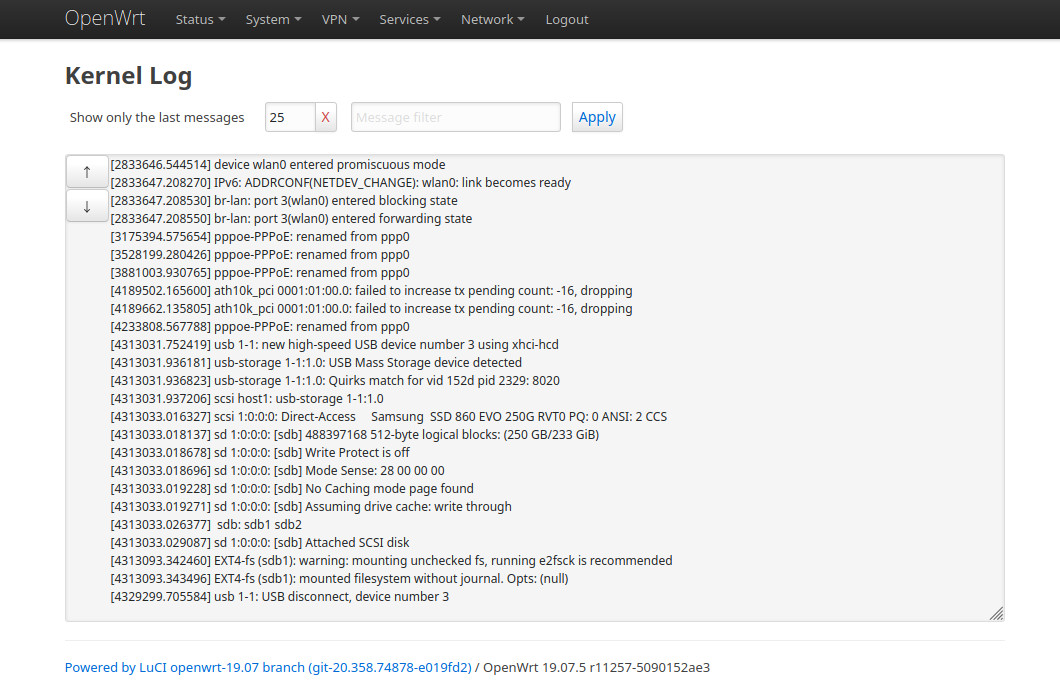
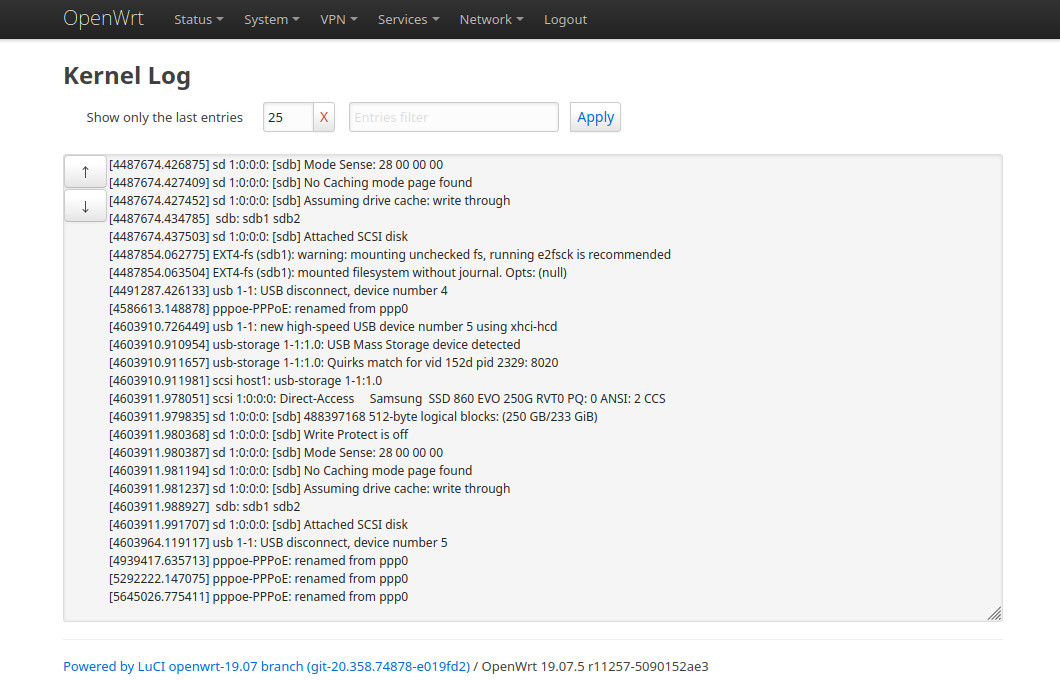
Minor code fixes

diff --git a/htdocs/luci-static/resources/view/dmesg.js b/htdocs/luci-static/resources/view/dmesg.js
@@ -9,6 +9,37 @@ return L.view.extend({
 		return logdata.trim().split(/\n/).map(line => line.replace(/^<\d+>/, ''));
 	},
 
+	setLogTail: function(cArr) {
+		let tailNumVal = document.getElementById('tailValue').value;
+		if(tailNumVal && tailNumVal > 0 && cArr) {
+			return cArr.slice(-tailNumVal);
+		};
+		return cArr;
+	},
+
+	setLogFilter: function(cArr) {
+		let fPattern = document.getElementById('logFilter').value;
+		if(!fPattern) {
+			return cArr;
+		};
+		let fArr = [];
+		try {
+			fArr = cArr.filter(s => new RegExp(fPattern, 'iu').test(s));
+		} catch(err) {
+			if(err.name === 'SyntaxError') {
+				ui.addNotification(null,
+					E('p', {}, _('Wrong regular expression') + ': ' + err.message));
+				return cArr;
+			} else {
+				throw err;
+			};
+		};
+		if(fArr.length === 0) {
+			fArr.push(_('No matches...'));
+		};
+		return fArr;
+	},
+
 	load: function() {
 		return fs.exec_direct('/bin/dmesg', [ '-r' ]).catch(e => {
 			ui.addNotification(null, E('p', {}, _('Unable to load log data: ' + err.message)));
@@ -49,8 +80,8 @@ return L.view.extend({
 			'form': 'logForm',
 			'class': 'cbi-input-text',
 			'style': 'min-width:16em !important; margin-right:1em !important; margin-bottom:0.3em !important',
-			'placeholder': _('Message filter'),
-			'data-tooltip': _('Filter messages with a regexp'),
+			'placeholder': _('Entries filter'),
+			'data-tooltip': _('Filter entries using regexp'),
 		});
 
 		let logFormSubmitBtn = E('input', {
@@ -62,37 +93,6 @@ return L.view.extend({
 			'click': ev => ev.target.blur(),
 		});
 
-		function setLogTail(cArr) {
-			let tailNumVal = tailValue.value;
-			if(tailNumVal && tailNumVal > 0 && cArr) {
-				return cArr.slice(-tailNumVal);
-			};
-			return cArr;
-		}
-
-		function setLogFilter(cArr) {
-			let fPattern = logFilter.value;
-			if(!fPattern) {
-				return cArr;
-			};
-			let fArr = [];
-			try {
-				fArr = cArr.filter(s => new RegExp(fPattern, 'iu').test(s));
-			} catch(err) {
-				if(err.name === 'SyntaxError') {
-					ui.addNotification(null,
-						E('p', {}, _('Wrong regular expression') + ': ' + err.message));
-					return cArr;
-				} else {
-					throw err;
-				};
-			};
-			if(fArr.length === 0) {
-				fArr.push(_('No matches...'));
-			};
-			return fArr;
-		}
-
 		return E([
 			E('h2', { 'id': 'logTitle', 'class': 'fade-in' }, _('Kernel Log')),
 			E('div', { 'class': 'cbi-section-descr fade-in' }),
@@ -103,7 +103,7 @@ return L.view.extend({
 							'class': 'cbi-value-title',
 							'for': 'tailValue',
 							'style': 'margin-bottom:0.3em !important',
-						}, _('Show only the last messages')),
+						}, _('Show only the last entries')),
 						E('div', { 'class': 'cbi-value-field' }, [
 							tailValue,
 							E('input', {
@@ -130,7 +130,7 @@ return L.view.extend({
 									formElems.forEach(e => e.disabled = true);
 
 									return this.load().then(logdata => {
-										let loglines = setLogFilter(setLogTail(
+										let loglines = this.setLogFilter(this.setLogTail(
 											this.parseLogData(logdata)));
 										logTextarea.rows = (loglines.length < this.tailDefault) ?
 											this.tailDefault : loglines.length;
@@ -145,31 +145,29 @@ return L.view.extend({
 				)
 			),
 			E('div', { 'class': 'cbi-section fade-in' },
-				E('div', { 'class': 'cbi-section-node' },
-					E('div', { 'class': 'cbi-value' }, [
-						E('div', { 'style': 'position:fixed' }, [
-							E('button', {
-								'class': 'btn',
-								'style': 'position:relative; display:block; margin:0 !important; left:1px; top:'
-									+ navBtnsTop,
-								'click': ev => {
-									document.getElementById('logTitle').scrollIntoView(true);
-									ev.target.blur();
-								},
-							}, '&#8593;'),
-							E('button', {
-								'class': 'btn',
-								'style': 'position:relative; display:block; margin:0 !important; margin-top:1px !important; left:1px; top:'
-									+ navBtnsTop,
-								'click': ev => {
-									logTextarea.scrollIntoView(false);
-									ev.target.blur();
-								},
-							}, '&#8595;'),
-						]),
-						logTextarea,
-					])
-				)
+				E('div', { 'class': 'cbi-section-node' }, [
+					E('div', { 'style': 'position:fixed' }, [
+						E('button', {
+							'class': 'btn',
+							'style': 'position:relative; display:block; margin:0 !important; left:1px; top:'
+								+ navBtnsTop,
+							'click': ev => {
+								document.getElementById('logTitle').scrollIntoView(true);
+								ev.target.blur();
+							},
+						}, '&#8593;'),
+						E('button', {
+							'class': 'btn',
+							'style': 'position:relative; display:block; margin:0 !important; margin-top:1px !important; left:1px; top:'
+								+ navBtnsTop,
+							'click': ev => {
+								logTextarea.scrollIntoView(false);
+								ev.target.blur();
+							},
+						}, '&#8595;'),
+					]),
+					logTextarea,
+				])
 			),
 		]);
 	},

diff --git a/README.md b/README.md
@@ -5,16 +5,16 @@ OpenWrt >= 19.07.
 
 **Installation notes:**
 
-    wget --no-check-certificate -O /tmp/luci-app-dmesg_0.4-4_all.ipk https://github.com/gSpotx2f/luci-app-dmesg/raw/master/packages/19.07/luci-app-dmesg_0.4-4_all.ipk
-    opkg install /tmp/luci-app-dmesg_0.4-4_all.ipk
-    rm /tmp/luci-app-dmesg_0.4-4_all.ipk
+    wget --no-check-certificate -O /tmp/luci-app-dmesg_0.4-5_all.ipk https://github.com/gSpotx2f/luci-app-dmesg/raw/master/packages/19.07/luci-app-dmesg_0.4-5_all.ipk
+    opkg install /tmp/luci-app-dmesg_0.4-5_all.ipk
+    rm /tmp/luci-app-dmesg_0.4-5_all.ipk
     /etc/init.d/rpcd restart
 
 **i18n-ru:**
 
-    wget --no-check-certificate -O /tmp/luci-i18n-dmesg-ru_0.4-4_all.ipk https://github.com/gSpotx2f/luci-app-dmesg/raw/master/packages/19.07/luci-i18n-dmesg-ru_0.4-4_all.ipk
-    opkg install /tmp/luci-i18n-dmesg-ru_0.4-4_all.ipk
-    rm /tmp/luci-i18n-dmesg-ru_0.4-4_all.ipk
+    wget --no-check-certificate -O /tmp/luci-i18n-dmesg-ru_0.4-5_all.ipk https://github.com/gSpotx2f/luci-app-dmesg/raw/master/packages/19.07/luci-i18n-dmesg-ru_0.4-5_all.ipk
+    opkg install /tmp/luci-i18n-dmesg-ru_0.4-5_all.ipk
+    rm /tmp/luci-i18n-dmesg-ru_0.4-5_all.ipk
 
 **Screenshots:**
 
